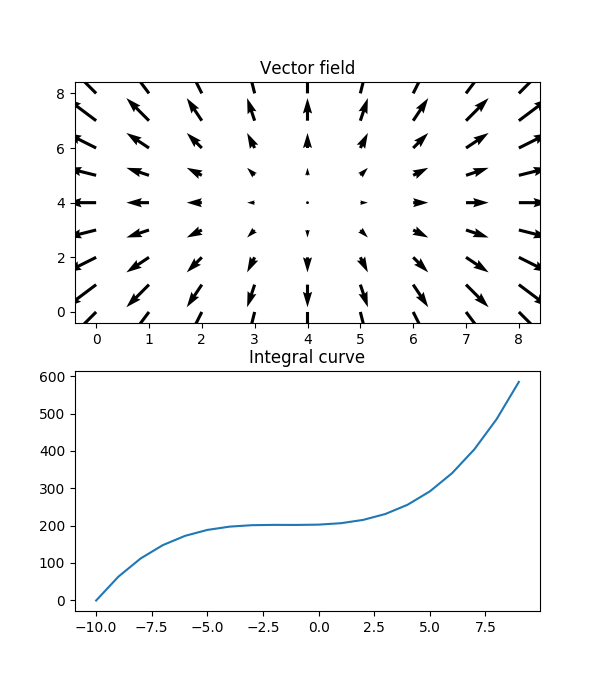
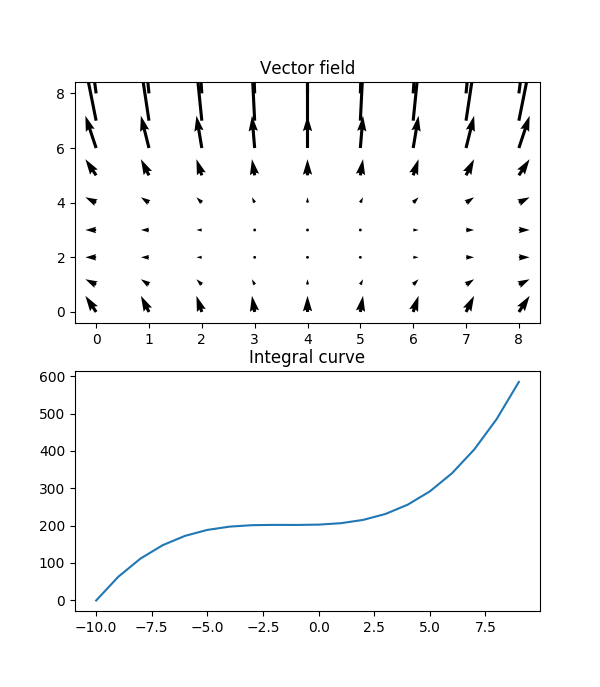
3d lab updated

diff --git a/Lab_3/task_2/solution.py b/Lab_3/task_2/solution.py
@@ -14,7 +14,9 @@ plt.tight_layout()
 
 plt.subplot(2,1,1)
 
-x, y = np.meshgrid(np.arange(-4,5),np.arange(-4,5))
+vg = np.vectorize(g)
+x = np.arange(-4,5)
+x, y = np.meshgrid(x, vg(0,x))
 
 plt.quiver(x, y)
 plt.title("Vector field")

diff --git a/Lab_3/readme.md b/Lab_3/readme.md
@@ -1,0 +1,18 @@
+##1.
+Розв'язок першого завдання знаходиться в папці **task_1**. Якщо якість фотогрій вас не влаштовує, зверніться до мене на найближчому практичному (лабораторному) занятті.
+
+##2.
+####2.2
+Інтегральні криві зображені в папці **task_2**, на малюнку **plot.png**
+
+$$
+y^2+3y+2=0 \Rightarrow y_1 = -1, y_2 = -2 \Rightarrow
+$$
+
+$$
+\Rightarrow y \equiv -1, y \equiv -2
+$$ - розв'язки, визначені на $$ \mathbb{R} $$ .
+
+Нехай $$y ( x , y_{_0} ), x \in I_{y_0}$$ - непродовжуваний розв'язок, т.щ. $$y(0, y_0)=y_0$$.
+
+
